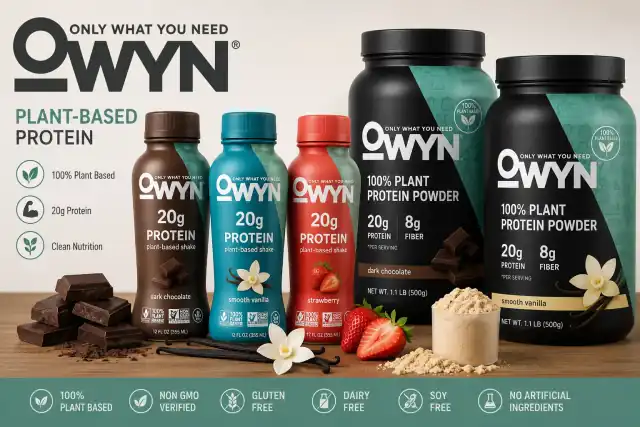
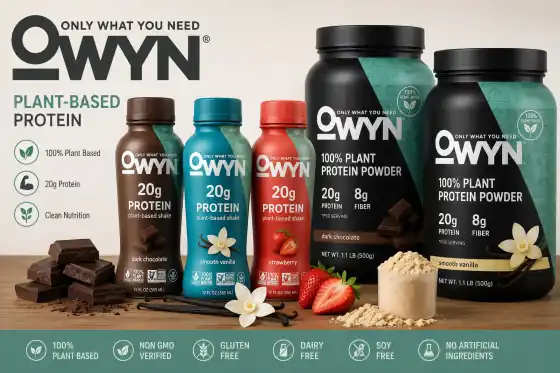
.

diff --git a/index.html b/index.html
@@ -95,8 +95,8 @@
             <img
               src="assets/images/owyn-plant-based-protein-lineup-640.webp"
               alt="OWYN plant based protein shake lineup with vegan protein drink bottles and plant protein powder tubs"
-              width="1600"
-              height="900"
+              width="560"
+              height="373"
               decoding="sync"
               fetchpriority="high"
             />
